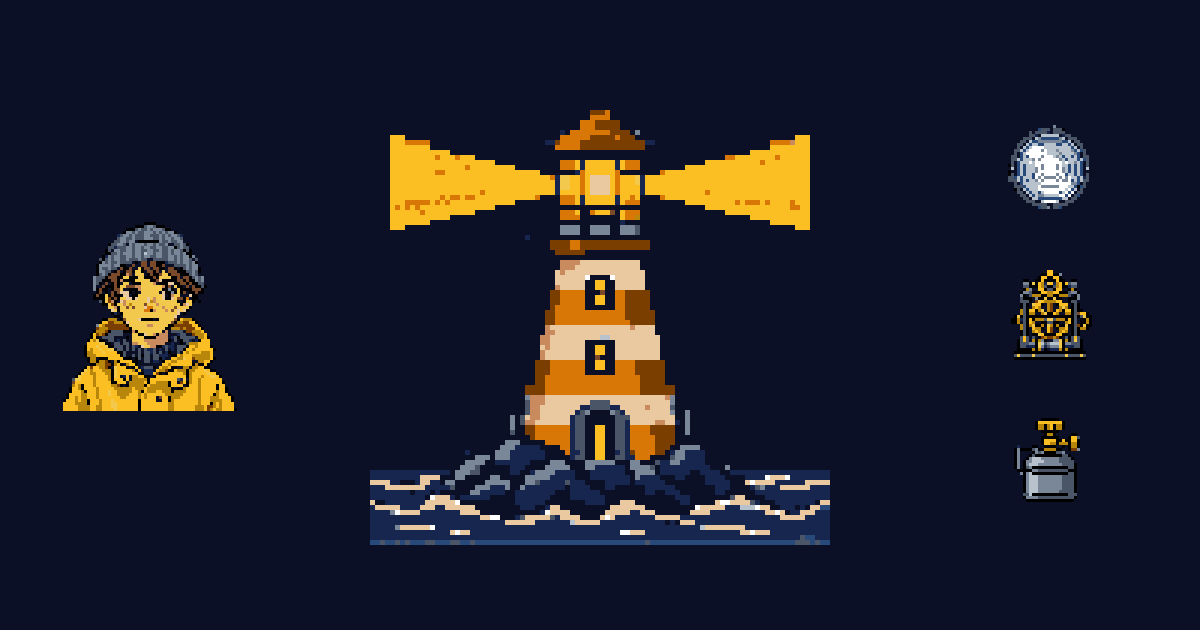
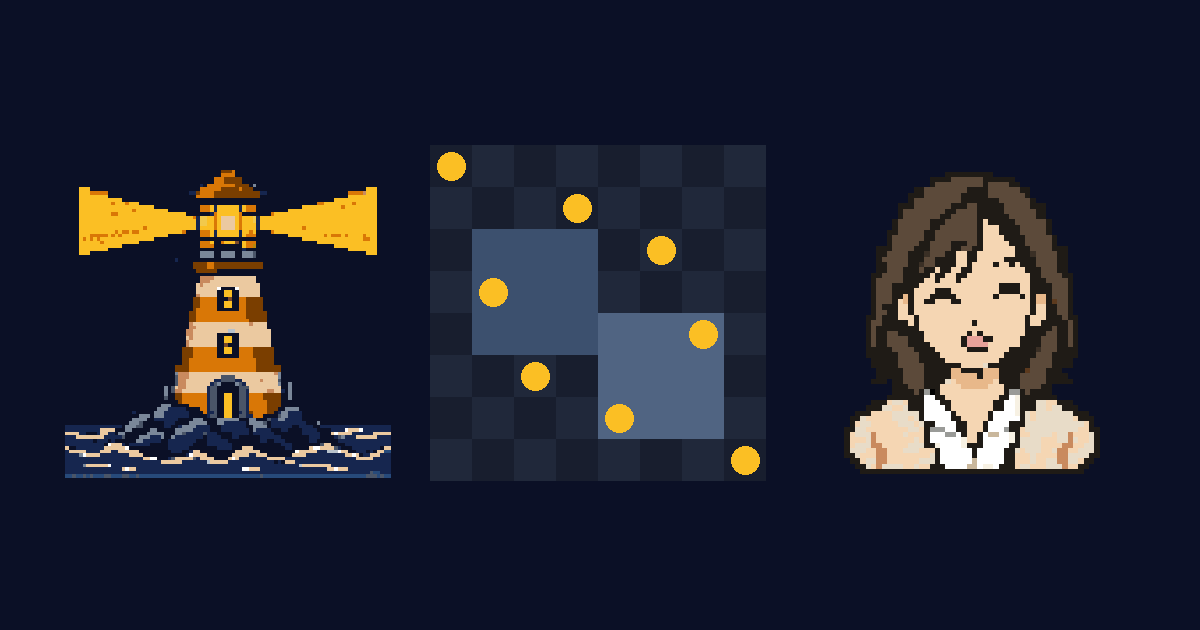
Generate OG tags and image from scripts/og.json; release fails on stale OG
- pnpm og rebuilds the og:start..og:end block and public/og-image.png
- pnpm og:check compares bytes; release.mjs runs it
- Feature tiles for Adventure, Queens and Talk at 340px

Changed region(s): [[0.0308, 0.1508, 0.925, 0.8746]]

diff --git a/index.html b/index.html
@@ -4,7 +4,15 @@
     <meta charset="UTF-8" />
     <meta name="viewport" content="width=device-width, initial-scale=1.0" />
     <title>ai-ps</title>
-    <meta name="description" content="「잿빛 등대」 텍스트 어드벤처, Queens 퍼즐 생성, AI 에이전트 실습을 담은 ai-ps." />
+    <!-- og:start -->
+    <meta name="description" content="「잿빛 등대」 텍스트 어드벤처, Queens 퍼즐 생성, 일본어 회화 연습, AI 에이전트 실습을 담은 ai-ps." />
+    <meta property="og:title" content="ai-ps · AI 에이전트 실습" />
+    <meta property="og:description" content="잿빛 등대 어드벤처, Queens 퍼즐, 일본어 회화 연습을 담은 AI 에이전트 실습." />
+    <meta property="og:image:width" content="1200" />
+    <meta property="og:image:height" content="630" />
+    <meta property="og:image:type" content="image/png" />
+    <meta property="og:image:alt" content="ai-ps 소개 이미지 — 잿빛 등대, Queens, 일본어 회화 튜터" />
+    <!-- og:end -->
     <meta name="theme-color" content="#1d2733" />
 
     <link rel="icon" href="/favicon.ico" />
@@ -14,16 +22,10 @@
 
     <meta property="og:type" content="website" />
     <meta property="og:site_name" content="ai-ps" />
-    <meta property="og:title" content="ai-ps · AI 에이전트 실습" />
-    <meta property="og:description" content="「잿빛 등대」 어드벤처와 Queens 퍼즐, AI 에이전트 실습." />
     <meta property="og:locale" content="ko_KR" />
     <!-- 도메인이 바뀌면 아래 og:url·og:image 두 줄만 교체한다. -->
     <meta property="og:url" content="https://ai-ps.qus0in.workers.dev/" />
     <meta property="og:image" content="https://ai-ps.qus0in.workers.dev/og-image.png" />
-    <meta property="og:image:width" content="1200" />
-    <meta property="og:image:height" content="630" />
-    <meta property="og:image:type" content="image/png" />
-    <meta property="og:image:alt" content="잿빛 등대와 ai-ps 소개 이미지" />
   </head>
   <body>
     <div id="root"></div>

diff --git a/tests/scripts/og.test.ts b/tests/scripts/og.test.ts
@@ -1,0 +1,35 @@
+import { describe, it } from 'node:test';
+import assert from 'node:assert/strict';
+import { ogBlock, replaceOgBlock } from '../../scripts/og.mjs';
+
+describe('Given OG metadata generation', () => {
+  const config = {
+    site: {
+      metaDescription: 'meta "desc"',
+      ogTitle: 'title',
+      ogDescription: 'og desc',
+      imageAlt: 'alt',
+    },
+    background: '#0B1026',
+    image: { width: 1200, height: 630, type: 'image/png' },
+    features: [],
+  };
+
+  it('When building the block Then escapes attributes and includes markers', () => {
+    const block = ogBlock(config);
+    assert.match(block, /<!-- og:start -->/);
+    assert.match(block, /<!-- og:end -->/);
+    assert.match(block, /content="meta &quot;desc&quot;"/);
+    assert.match(block, /content="title"/);
+  });
+
+  it('When replacing a marker block Then preserves surrounding lines', () => {
+    const html = 'before\n<!-- og:start -->\nold\n<!-- og:end -->\nafter';
+    const result = replaceOgBlock(html, 'NEW');
+    assert.equal(result, 'before\nNEW\nafter');
+  });
+
+  it('When markers are missing Then throws', () => {
+    assert.throws(() => replaceOgBlock('no markers', 'NEW'));
+  });
+});

diff --git a/scripts/og-image.py b/scripts/og-image.py
@@ -1,0 +1,84 @@
+#!/usr/bin/env python3
+"""OG 이미지 합성: og.json 기반으로 public/og-image.png를 생성한다."""
+import argparse
+import json
+import os
+import sys
+
+from PIL import Image, ImageDraw
+
+
+def main(argv=None):
+    parser = argparse.ArgumentParser(description=__doc__)
+    parser.add_argument("manifest")
+    parser.add_argument("output")
+    args = parser.parse_args(argv)
+
+    with open(args.manifest, encoding="utf-8") as handle:
+        config = json.load(handle)
+
+    width = int(config["image"]["width"])
+    height = int(config["image"]["height"])
+    background = config.get("background", "#0B1026")
+    root = os.path.dirname(os.path.dirname(os.path.abspath(args.manifest)))
+
+    canvas = Image.new("RGBA", (width, height), background)
+    features = sorted(config.get("features", []), key=lambda item: (-int(item.get("weight", 0)), item.get("route", "")))
+
+    tile = 340
+    gap = 32
+    total = len(features) * tile + max(0, len(features) - 1) * gap
+    x = (width - total) // 2
+    y = (height - tile) // 2
+
+    for feature in features:
+        image_path = feature.get("image")
+        if image_path:
+            full_path = os.path.join(root, "public", str(image_path).lstrip("/"))
+            if not os.path.exists(full_path):
+                print(f"Missing OG source image: {image_path}", file=sys.stderr)
+                return 1
+            image = Image.open(full_path).convert("RGBA")
+            image = image.resize((tile, tile), Image.Resampling.NEAREST)
+        else:
+            image = make_queens_tile(tile)
+        canvas.alpha_composite(image, (x, y))
+        x += tile + gap
+
+    os.makedirs(os.path.dirname(os.path.abspath(args.output)), exist_ok=True)
+    canvas.convert("RGB").save(args.output, format="PNG")
+    print(f"OG_IMAGE {args.output} ({width}x{height}) features={len(features)}")
+    return 0
+
+
+def make_queens_tile(size):
+    tile = Image.new("RGBA", (size, size), (0, 0, 0, 0))
+    draw = ImageDraw.Draw(tile)
+    cells = 8
+    cell = size // cells
+    region_colors = [
+        (60, 80, 110, 255), (40, 55, 75, 255), (80, 100, 130, 255),
+        (30, 40, 60, 255), (70, 90, 120, 255),
+    ]
+    for row in range(cells):
+        for col in range(cells):
+            color = (24, 30, 46, 255) if (row + col) % 2 == 0 else (32, 40, 58, 255)
+            draw.rectangle((col * cell, row * cell, (col + 1) * cell - 1, (row + 1) * cell - 1), fill=color)
+    # color regions
+    for row in range(2, 5):
+        for col in range(1, 4):
+            draw.rectangle((col * cell, row * cell, (col + 1) * cell - 1, (row + 1) * cell - 1), fill=region_colors[0])
+    for row in range(4, 7):
+        for col in range(4, 7):
+            draw.rectangle((col * cell, row * cell, (col + 1) * cell - 1, (row + 1) * cell - 1), fill=region_colors[2])
+    # queens
+    for row, col in ((0, 0), (1, 3), (2, 5), (3, 1), (4, 6), (5, 2), (6, 4), (7, 7)):
+        cx = col * cell + cell // 2
+        cy = row * cell + cell // 2
+        r = cell // 3
+        draw.ellipse((cx - r, cy - r, cx + r, cy + r), fill=(251, 191, 36, 255))
+    return tile
+
+
+if __name__ == "__main__":
+    sys.exit(main())

diff --git a/docs/harness/operations.md b/docs/harness/operations.md
@@ -23,6 +23,7 @@
 ## 릴리스
 - 기본은 빠른 경로다. `pnpm test`는 `tests/**/*.test.ts`만 실행한다. 느리거나 복잡한 검증은 `*.slow.ts`로 분리하며, `pnpm test:slow`·`pnpm smoke <url> --llm`·`bash tests/scripts/herdr/run.sh`·실모델 검증은 요청 시에만 실행한다. 기본 CI·릴리스·배포에 이 특수 검증을 추가하지 않는다.
 - `pnpm release <버전>`(`scripts/release.mjs`). 작업 트리 확인 → 빠른 test·typecheck·build → 태그 중복 확인 → HEAD에 태그 → `git push --atomic origin <branch> <버전>` → `git ls-remote --tags`로 확인. 커밋은 스크립트가 하지 않고, 미추적 `docs/retro/`만 경고로 허용한다.
+- 새 라우트·기능을 추가하면 `scripts/og.json`에 항목을 추가한 뒤 `pnpm og`로 `public/og-image.png`와 `index.html` OG 구간을 갱신하고 커밋한다. 릴리스는 낡은 OG를 `og:check`로 막는다. 카카오 공유 캐시는 OG 변경 후 https://developers.kakao.com/tool/clear/og 에서 초기화한다. Pillow는 시스템/venv에 설치해야 한다(`python3 -I`로 user site가 비활성화됨).
 - 계획 확인은 `node scripts/release.mjs <버전> --dry-run`으로 한다(태그·푸시 없음).
 - 릴리스 직후 소스를 바꾸지 않고 배포할 때는 `pnpm run deploy --skip-build`로 방금 만든 `dist`를 재사용한다. `dist/index.html`이 없으면 실패한다. 독립 배포는 기본 build를 한 번 수행한다.
 - 중간에 끼어든 작은 요청은 별도 버전으로 먼저 커밋·태그해 순서를 유지한다.
